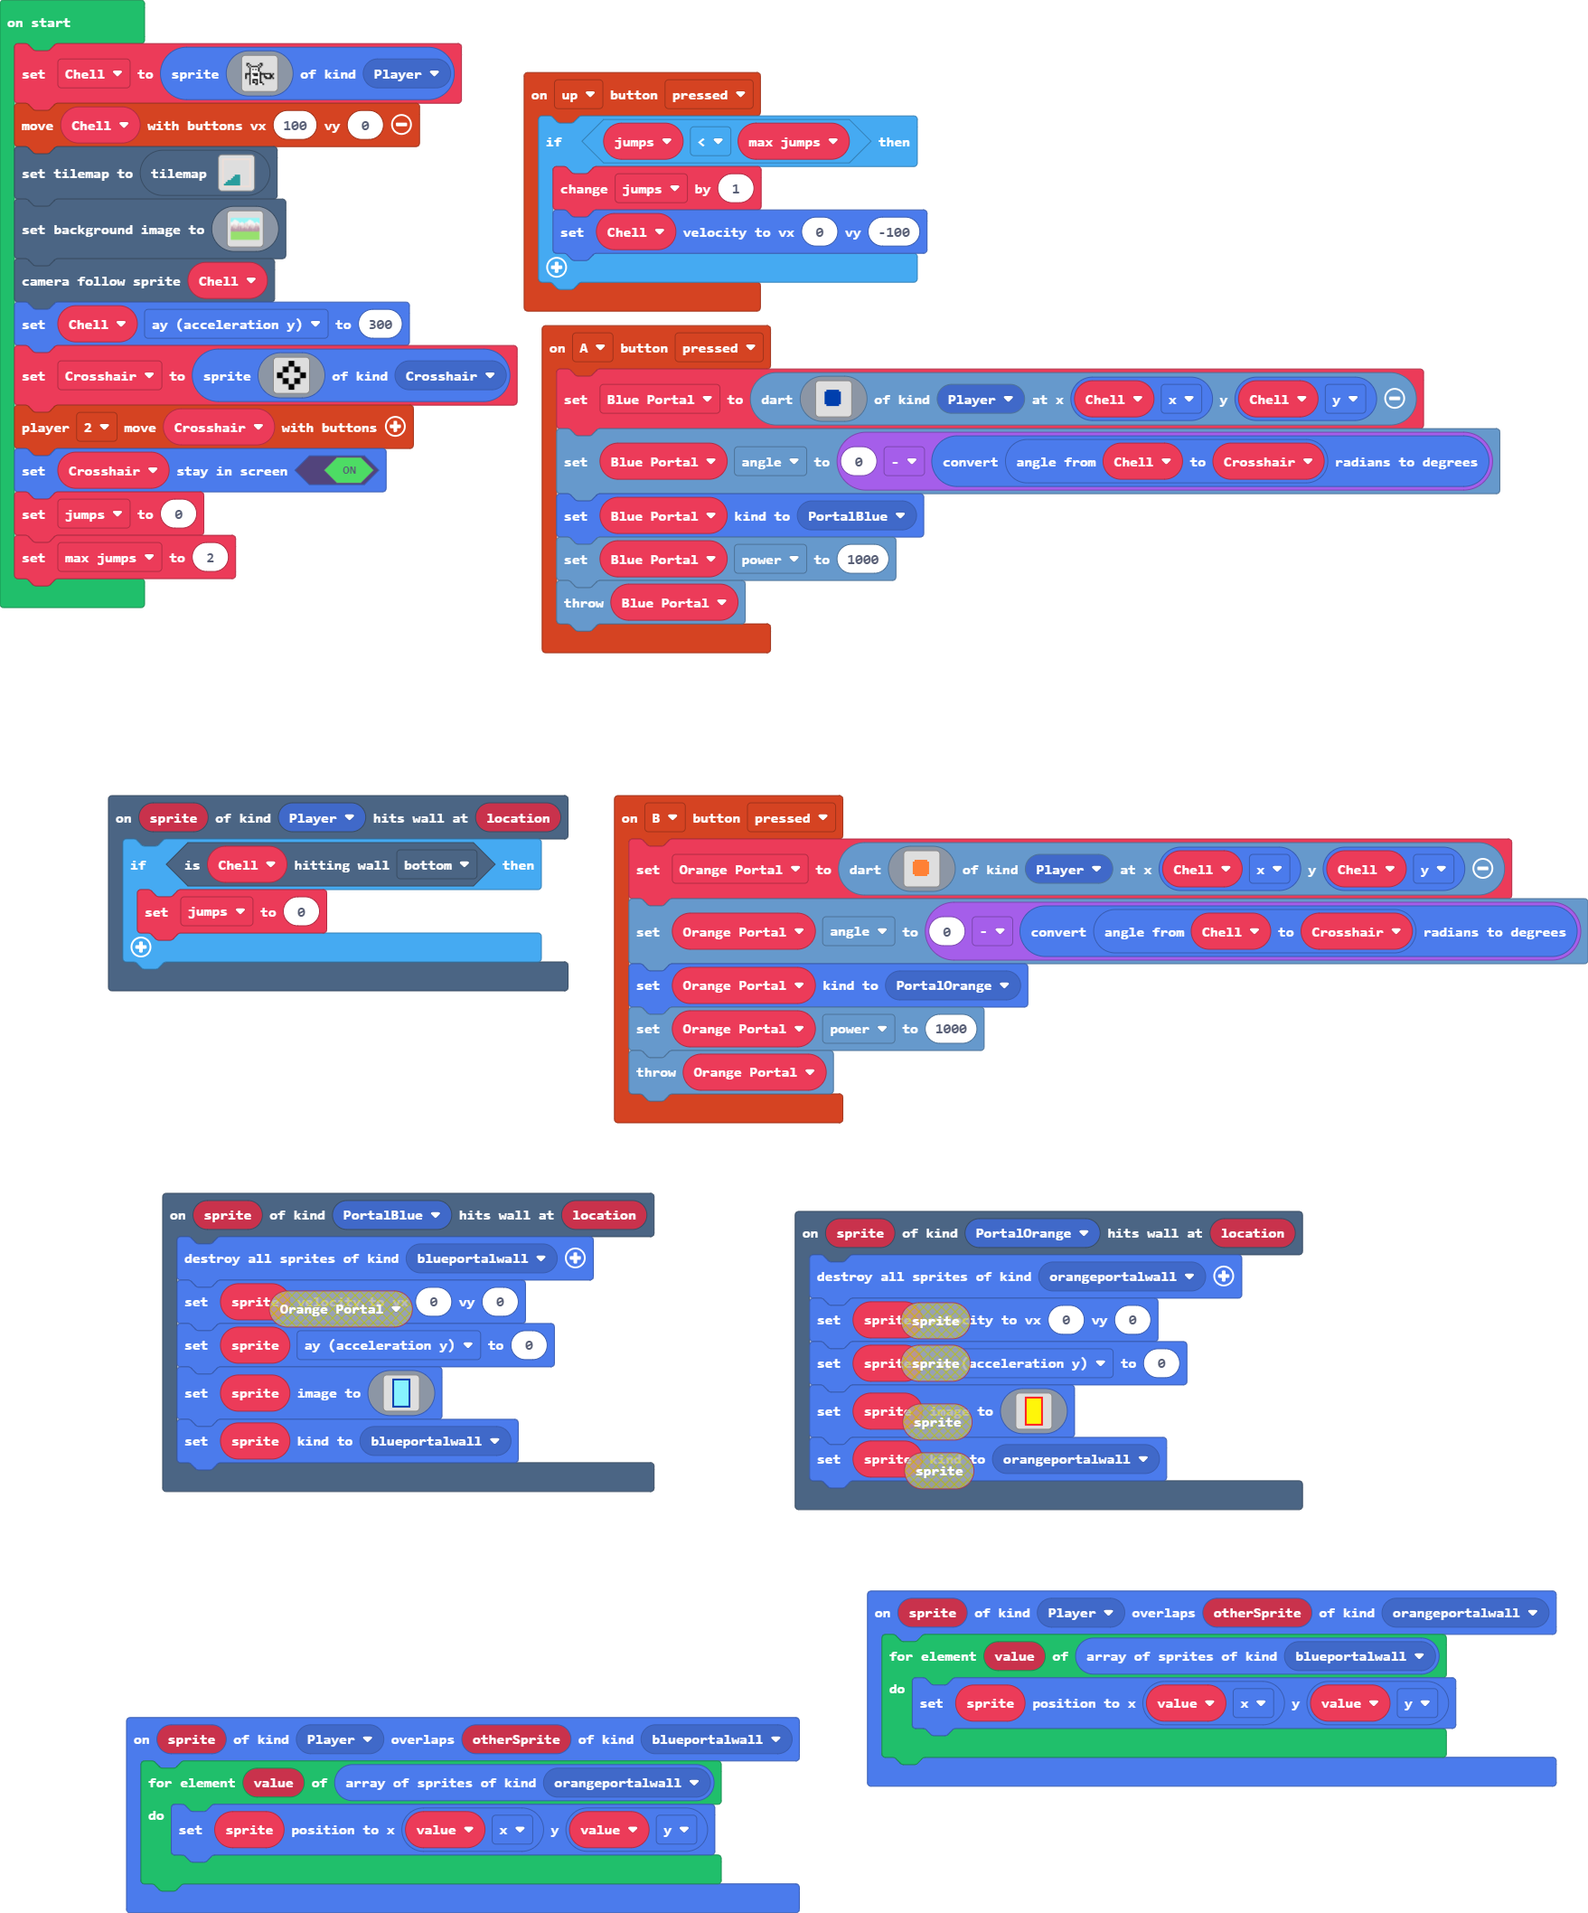
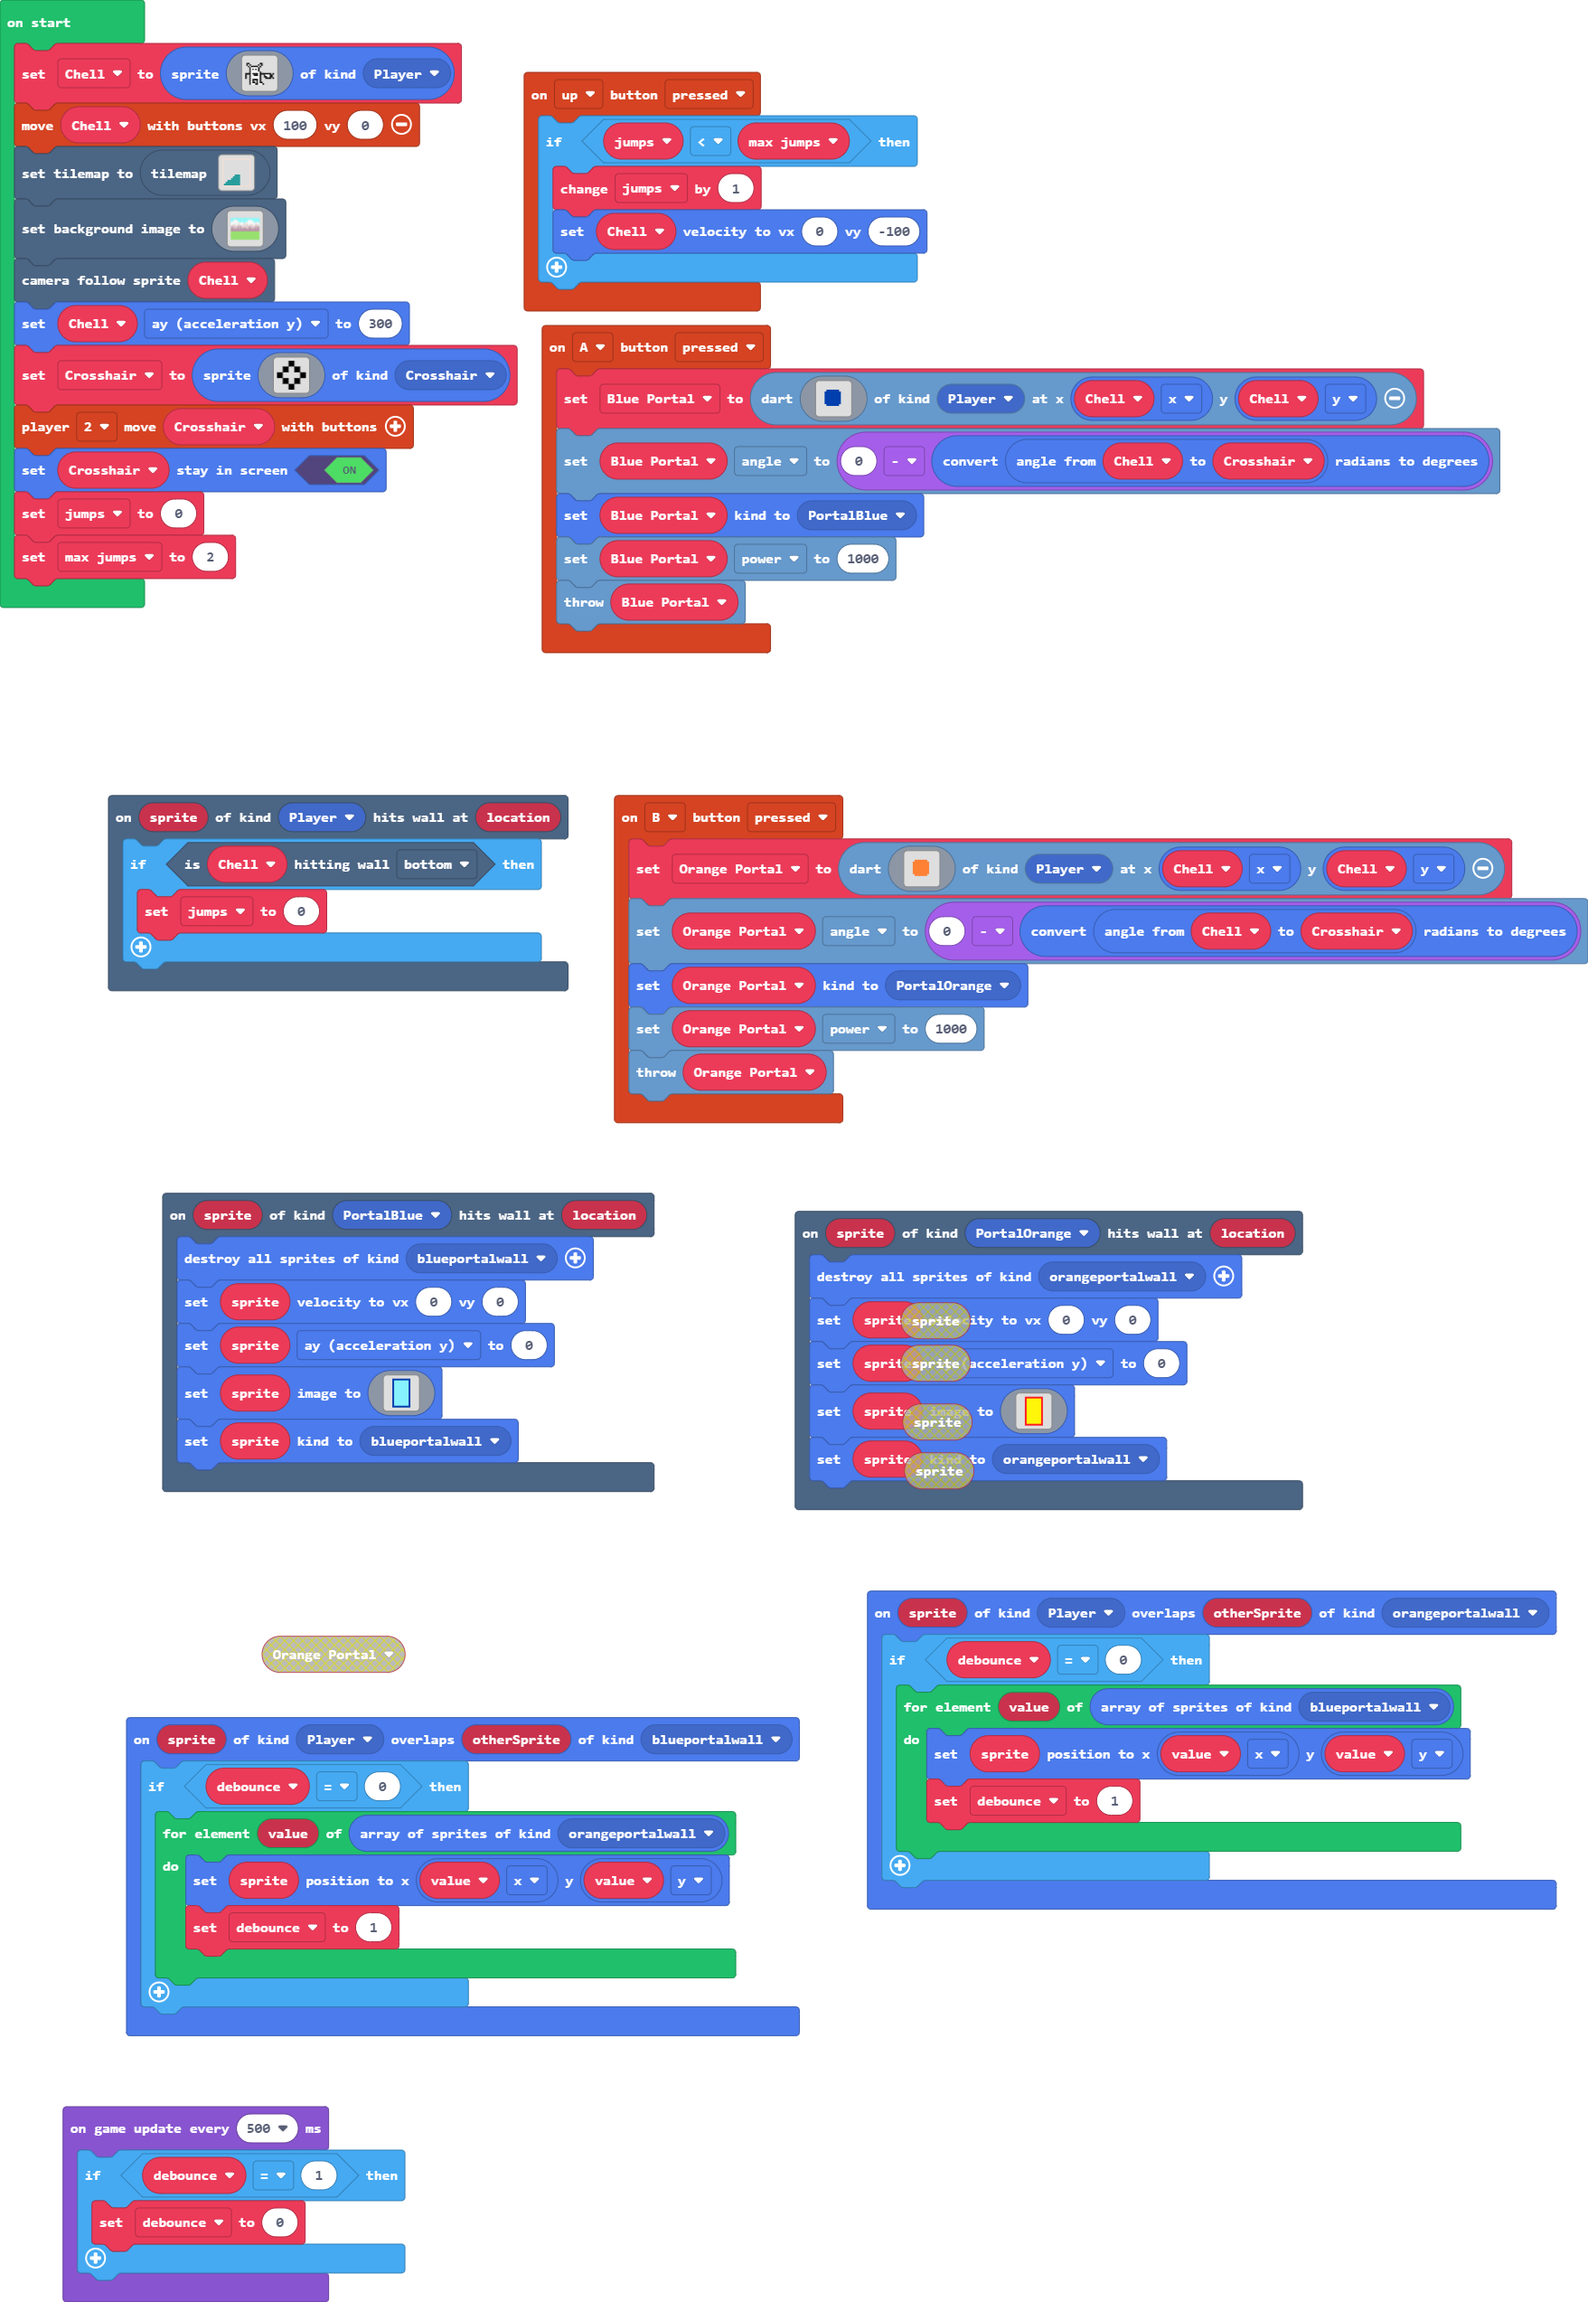
Fixed the delay between going through portals

diff --git a/main.ts b/main.ts
@@ -89,8 +89,11 @@ controller.B.onEvent(ControllerButtonEvent.Pressed, function () {
     Orange_Portal.throwDart()
 })
 sprites.onOverlap(SpriteKind.Player, SpriteKind.blueportalwall, function (sprite, otherSprite) {
-    for (let value of sprites.allOfKind(SpriteKind.orangeportalwall)) {
-        sprite.setPosition(value.x, value.y)
+    if (debounce == 0) {
+        for (let value of sprites.allOfKind(SpriteKind.orangeportalwall)) {
+            sprite.setPosition(value.x, value.y)
+            debounce = 1
+        }
     }
 })
 controller.A.onEvent(ControllerButtonEvent.Pressed, function () {
@@ -118,11 +121,15 @@ controller.A.onEvent(ControllerButtonEvent.Pressed, function () {
     Blue_Portal.throwDart()
 })
 sprites.onOverlap(SpriteKind.Player, SpriteKind.orangeportalwall, function (sprite, otherSprite) {
-    for (let value of sprites.allOfKind(SpriteKind.blueportalwall)) {
-        sprite.setPosition(value.x, value.y)
+    if (debounce == 0) {
+        for (let value of sprites.allOfKind(SpriteKind.blueportalwall)) {
+            sprite.setPosition(value.x, value.y)
+            debounce = 1
+        }
     }
 })
 let Blue_Portal: Dart = null
+let debounce = 0
 let Orange_Portal: Dart = null
 let max_jumps = 0
 let jumps = 0
@@ -266,3 +273,8 @@ controller.player2.moveSprite(Crosshair)
 Crosshair.setStayInScreen(true)
 jumps = 0
 max_jumps = 2
+game.onUpdateInterval(500, function () {
+    if (debounce == 1) {
+        debounce = 0
+    }
+})
